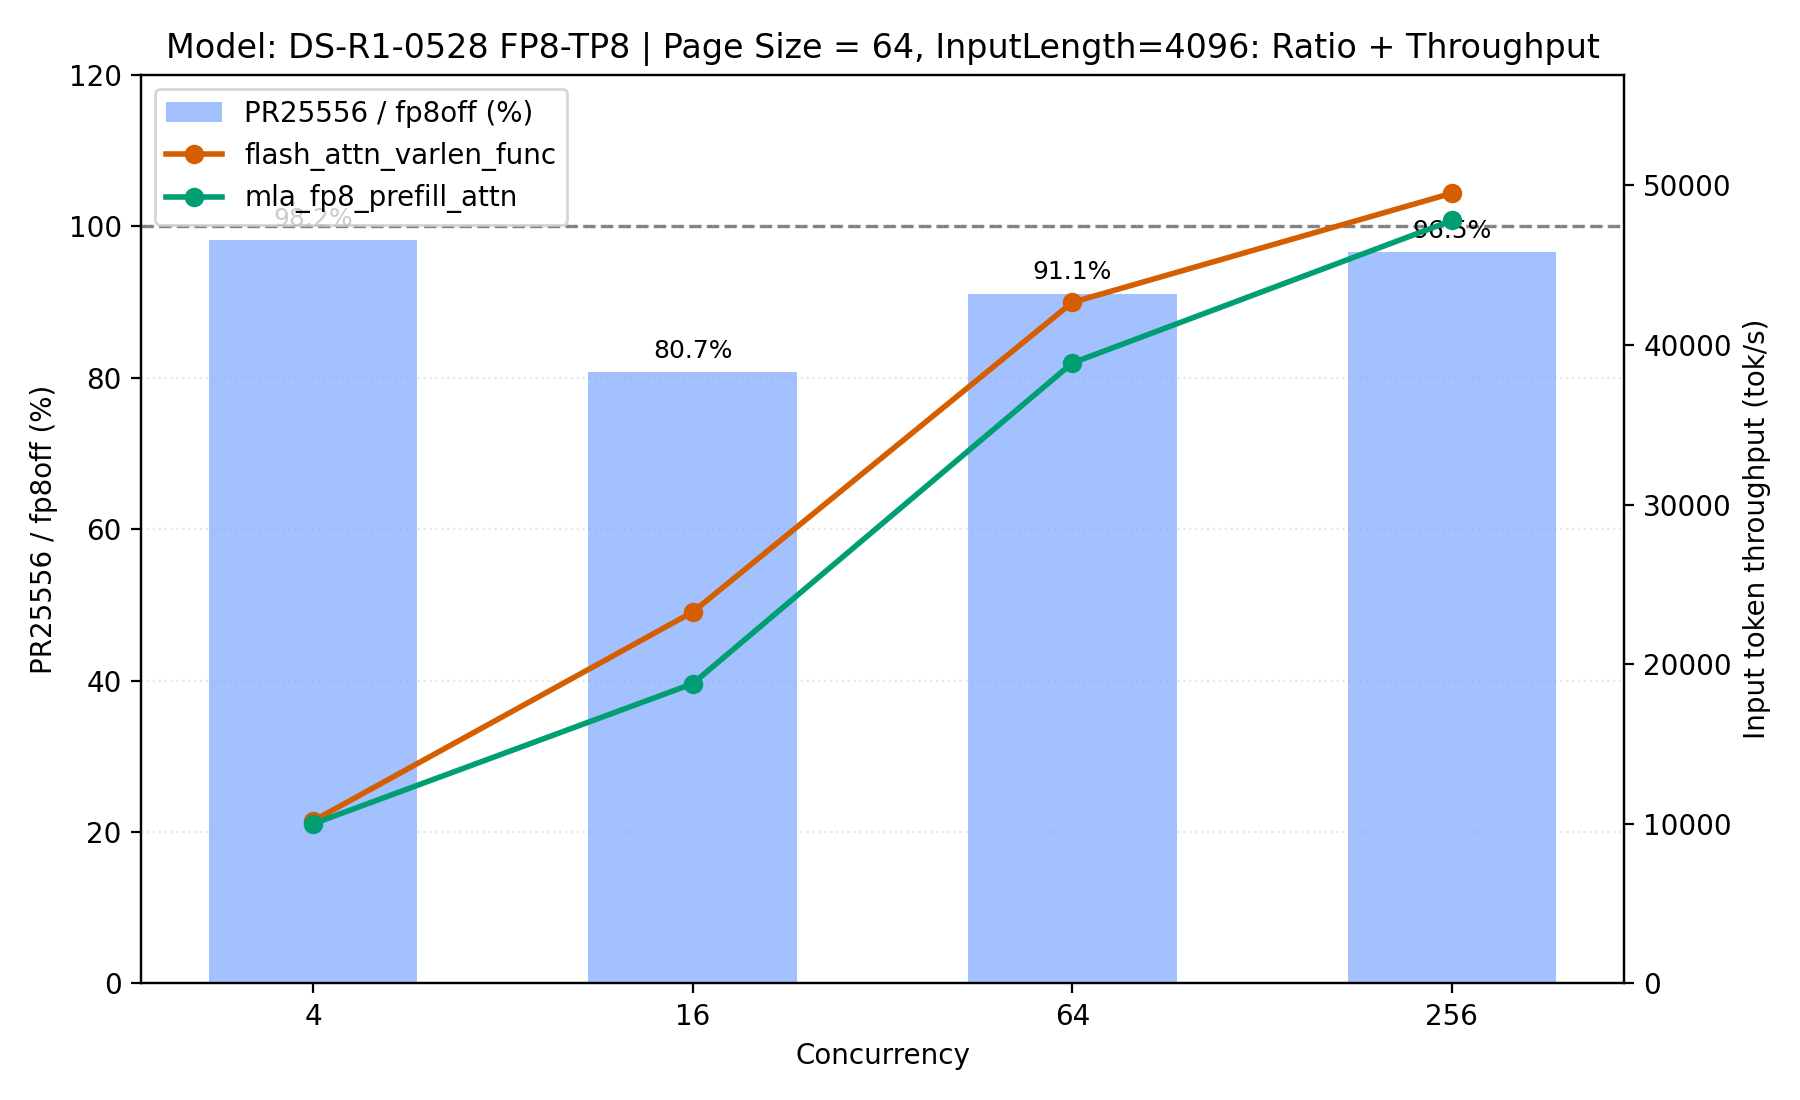
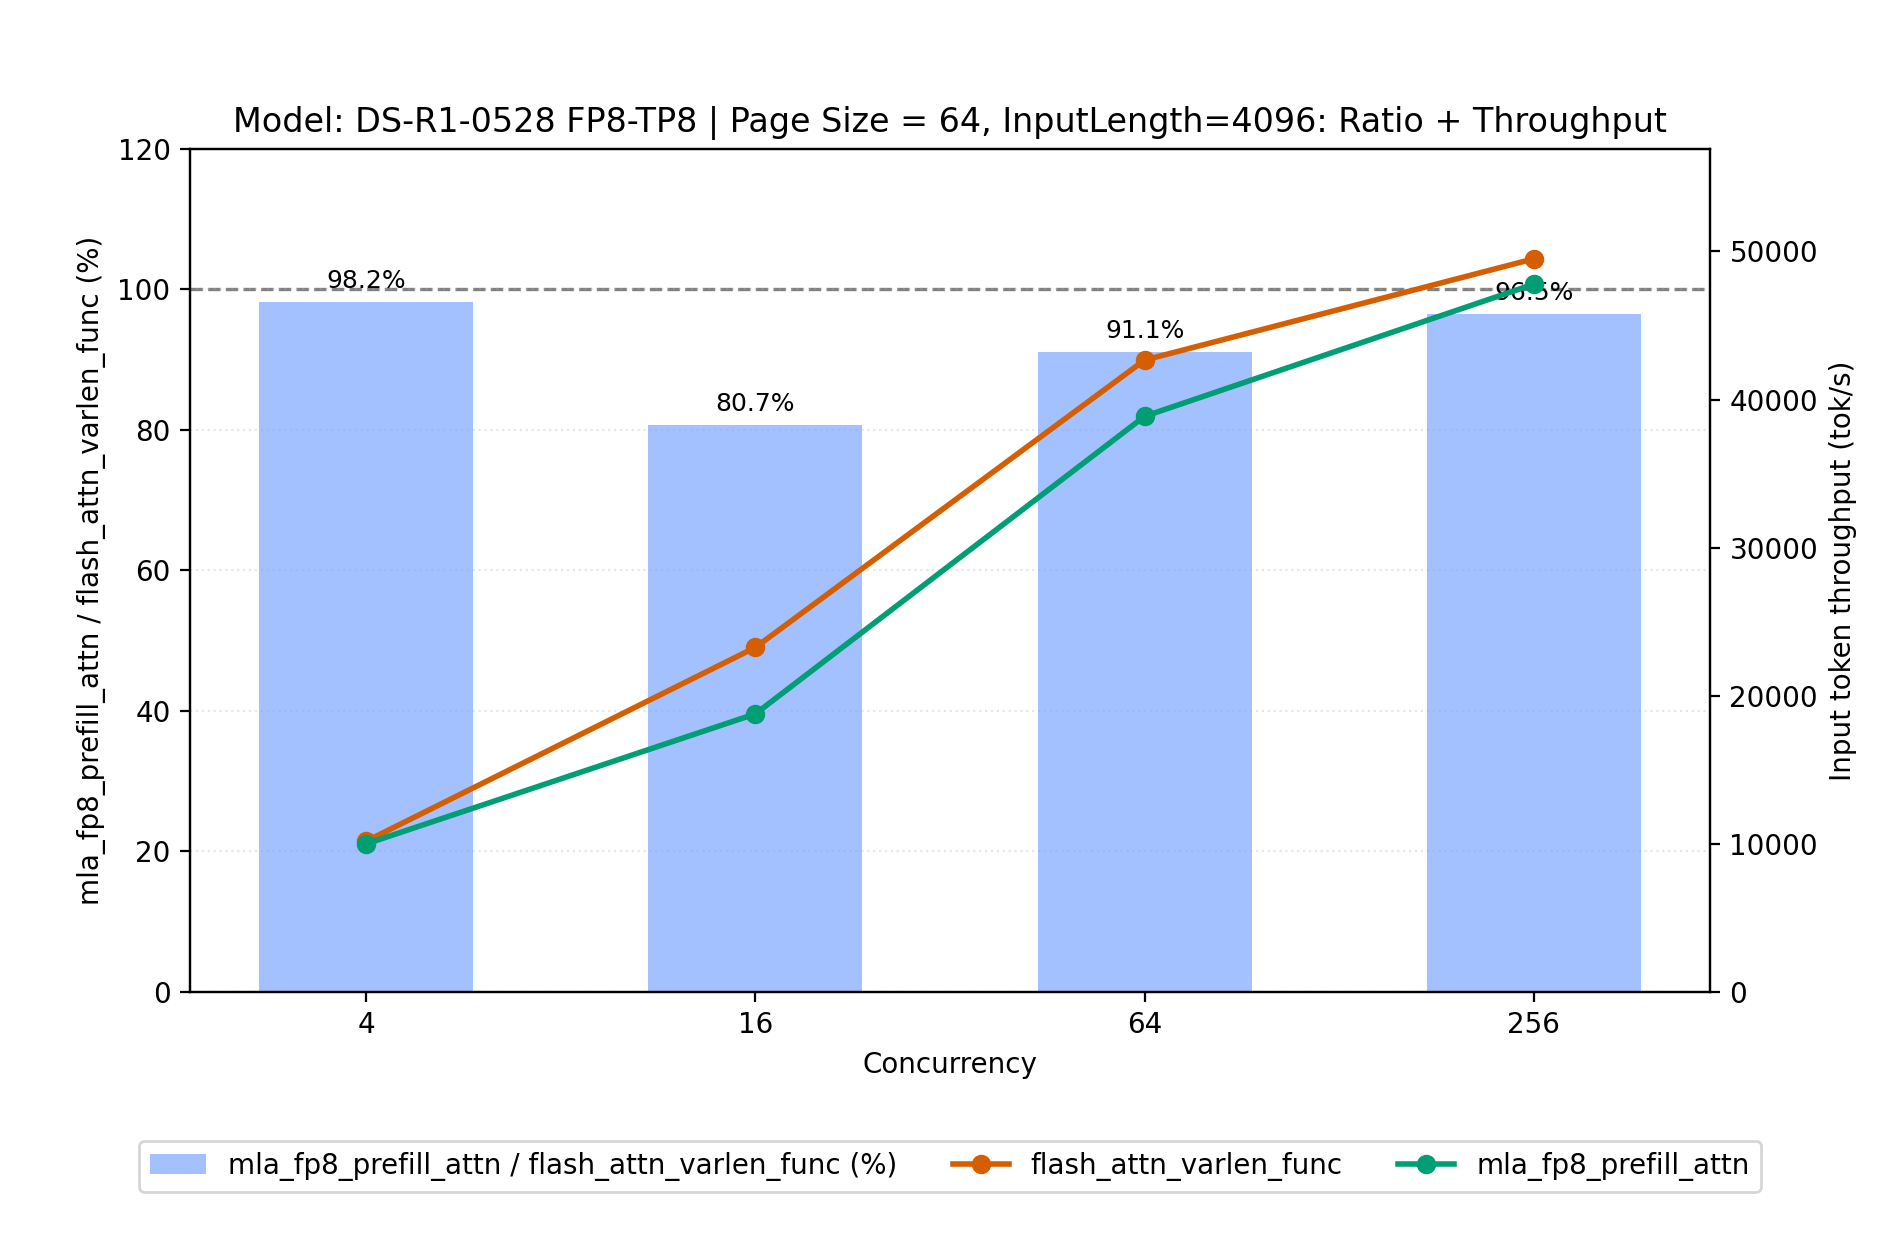
PrefillKernel: match ratio plot layout.

Changed region(s): [[0.0, 0.0309, 0.9956, 0.9891], [0.3422, 0.3091, 0.4356, 0.34]]

diff --git a/PrefillKernel/plot_throughput_ratio_dual_axis.py b/PrefillKernel/plot_throughput_ratio_dual_axis.py
@@ -8,6 +8,9 @@ import numpy as np
 
 ROOT = Path("/home/jacchang/SGLang-benchmarks/PrefillKernel")
 PIVOT_CSV = ROOT / "input_throughput_comparison_pivot.csv"
+INPUT_LEN = 4096
+FIGSIZE = (9.5, 6.2)
+SUBPLOTS_ADJUST = {"left": 0.10, "right": 0.90, "top": 0.88, "bottom": 0.20}
 
 
 def load_rows():
@@ -37,7 +40,7 @@ def get_series(rows, page_size):
 
 
 def plot_one(page_size, concs, base, pr_vals, ratio_pct):
-    fig, ax1 = plt.subplots(figsize=(9, 5.5))
+    fig, ax1 = plt.subplots(figsize=FIGSIZE)
     x = np.arange(len(concs))
 
     # Left axis: ratio bars
@@ -47,11 +50,11 @@ def plot_one(page_size, concs, base, pr_vals, ratio_pct):
         width=0.55,
         color="#7DA6FF",
         alpha=0.7,
-        label="PR25556 / fp8off (%)",
+        label="mla_fp8_prefill_attn / flash_attn_varlen_func (%)",
         zorder=2,
     )
     ax1.axhline(100.0, color="gray", linestyle="--", linewidth=1.2, zorder=1)
-    ax1.set_ylabel("PR25556 / fp8off (%)")
+    ax1.set_ylabel("mla_fp8_prefill_attn / flash_attn_varlen_func (%)")
     ax1.set_ylim(0, max(120, float(np.max(ratio_pct) * 1.15)))
     ax1.set_xticks(x)
     ax1.set_xticklabels([str(c) for c in concs])
@@ -82,14 +85,19 @@ def plot_one(page_size, concs, base, pr_vals, ratio_pct):
 
     title = (
         f"Model: DS-R1-0528 FP8-TP8 | "
-        f"Page Size = {page_size}, InputLength=4096: Ratio + Throughput"
+        f"Page Size = {page_size}, InputLength={INPUT_LEN}: Ratio + Throughput"
     )
     ax1.set_title(title)
 
-    # Joint legend
     handles1, labels1 = ax1.get_legend_handles_labels()
     handles2, labels2 = ax2.get_legend_handles_labels()
-    ax1.legend(handles1 + handles2, labels1 + labels2, loc="upper left")
+    ax1.legend(
+        handles1 + handles2,
+        labels1 + labels2,
+        loc="upper center",
+        bbox_to_anchor=(0.5, -0.16),
+        ncol=3,
+    )
 
     # Annotate ratio on bars
     for b, r in zip(bars, ratio_pct):
@@ -102,7 +110,7 @@ def plot_one(page_size, concs, base, pr_vals, ratio_pct):
             fontsize=9,
         )
 
-    fig.tight_layout()
+    fig.subplots_adjust(**SUBPLOTS_ADJUST)
     out = ROOT / f"page{page_size}_ratio_throughput.png"
     fig.savefig(out, dpi=200)
     plt.close(fig)

diff --git a/PrefillKernel/plot_ttft_ratio_dual_axis.py b/PrefillKernel/plot_ttft_ratio_dual_axis.py
@@ -10,6 +10,8 @@ import numpy as np
 ROOT = Path("/home/jacchang/SGLang-benchmarks/PrefillKernel")
 DATA_ROOT = Path("/home/jacchang/plots/pagesize_pr25556_matrix_20260521_025634")
 INPUT_LEN = 4096
+FIGSIZE = (9.5, 6.2)
+SUBPLOTS_ADJUST = {"left": 0.10, "right": 0.90, "top": 0.88, "bottom": 0.20}
 CONCS = [4, 16, 64, 256]
 CASES = {
     "page1_fp8off": {"page_size": 1, "method": "SGLANG_AITER_FP8_PREFILL_ATTN=0"},
@@ -62,7 +64,7 @@ def build_series(rows, page_size):
 
 
 def plot_one(page_size, base, pr_vals, ratio_pct):
-    fig, ax1 = plt.subplots(figsize=(9, 5.5))
+    fig, ax1 = plt.subplots(figsize=FIGSIZE)
     x = np.arange(len(CONCS))
 
     bars = ax1.bar(
@@ -129,7 +131,7 @@ def plot_one(page_size, base, pr_vals, ratio_pct):
             fontsize=9,
         )
 
-    fig.tight_layout(rect=(0, 0.06, 1, 1))
+    fig.subplots_adjust(**SUBPLOTS_ADJUST)
     out = ROOT / f"page{page_size}_ratio_ttft.png"
     fig.savefig(out, dpi=200)
     plt.close(fig)
